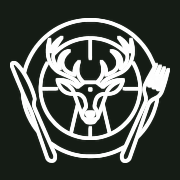
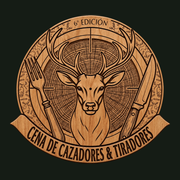
acomodado seo y mail en entradas

diff --git a/lib/admin/consultas.ts b/lib/admin/consultas.ts
@@ -29,7 +29,7 @@ import type {
   VentaManual,
   VentaManualJson,
 } from "./tipos";
-import type { Entrada, EstadoOrden } from "@/lib/tipos";
+import type { Entrada, EstadoOrden, Orden } from "@/lib/tipos";
 
 /**
  * Lecturas del panel. Las pantallas solo llaman a estas funciones.
@@ -218,10 +218,13 @@ export async function obtenerDiasDeVenta(q?: string): Promise<{
 /**
  * Las entradas emitidas de un dia, una por butaca.
  *
- * Un pedido por orden, todos en paralelo: `/api/ordenes/{token}/entradas` es el
- * unico lugar donde estan los codigos, y sin codigo no hay ni "cambiar butaca"
- * ni "anular". La pantalla llama a esto para todos sus dias de una: son cien
- * pedidos como techo —el tope de la lista de ordenes— y salen juntos.
+ * Dos pedidos por orden, todos en paralelo. `/api/ordenes/{token}/entradas` es
+ * el unico lugar donde estan los codigos, y sin codigo no hay ni "cambiar
+ * butaca" ni "anular"; `/api/ordenes/{token}` es el unico que trae al comprador
+ * entero, y de ahi sale el mail al que fue el PDF —la lista de ordenes del
+ * panel no lo incluye—. La pantalla llama a esto para todos sus dias de una:
+ * son doscientos pedidos como techo —el tope de la lista de ordenes es cien— y
+ * salen juntos.
  *
  * Es el endpoint publico, sin token de admin, y es a proposito: el contrato dice
  * que el detalle de una compra no tiene version admin.
@@ -229,10 +232,8 @@ export async function obtenerDiasDeVenta(q?: string): Promise<{
  * **Lo de `anulada` es deduccion, no dato.** Ese listado no trae `anuladaEl`,
  * pero anular devuelve la butaca a la venta y la saca de las que la orden
  * conserva. Entonces: si el dia trae mas entradas que butacas conservadas, esas
- * de mas estan anuladas, y para saber *cuales* hay que pedir el detalle de la
- * orden — que es el unico que lista las butacas que le quedan. Se pide solo para
- * las ordenes donde los numeros no cierran, que son las pocas que tienen alguna
- * anulada; en la enorme mayoria no sale ese segundo viaje.
+ * de mas estan anuladas, y para saber *cuales* se miran las butacas que la orden
+ * conserva, que las lista el mismo detalle que ya se pidio por el mail.
  *
  * Si el cruce no cierra —porque el backend ya filtra las anuladas de ese listado,
  * o porque cambio lo que devuelve— **no se marca ninguna**. Tachar la entrada
@@ -243,8 +244,12 @@ export async function obtenerEntradasDelDia(
 ): Promise<EntradaVendida[]> {
   const porOrden = await Promise.all(
     ordenes.map(async (orden) => {
-      const entradas = await obtenerEntradasPorToken(orden.token);
-      const anuladas = await deducirAnuladas(orden, entradas);
+      const [entradas, detalle] = await Promise.all([
+        obtenerEntradasPorToken(orden.token),
+        obtenerOrdenPorToken(orden.token),
+      ]);
+
+      const anuladas = deducirAnuladas(orden, entradas, detalle);
 
       return entradas.map((entrada) => ({
         ...entrada,
@@ -252,6 +257,7 @@ export async function obtenerEntradasDelDia(
         ordenToken: orden.token,
         dni: orden.dni,
         comprador: orden.comprador,
+        email: detalle?.usuario.email ?? null,
         origen: orden.origen,
         pagadoEl: orden.pagadoEl,
       }));
@@ -264,15 +270,14 @@ export async function obtenerEntradasDelDia(
 }
 
 /** Los numeros de butaca anulados de una orden, o vacio si el cruce no cierra. */
-async function deducirAnuladas(
+function deducirAnuladas(
   orden: OrdenAdmin,
   entradas: Entrada[],
-): Promise<Set<number>> {
+  detalle: Orden | null,
+): Set<number> {
   const sobran = entradas.length - orden.butacas;
 
   if (sobran <= 0) return new Set();
-
-  const detalle = await obtenerOrdenPorToken(orden.token);
 
   if (!detalle) return new Set();
 

diff --git a/lib/admin/tipos.ts b/lib/admin/tipos.ts
@@ -238,6 +238,15 @@ export type EntradaVendida = {
   ordenToken: string;
   dni: string;
   comprador: string;
+  /**
+   * A donde salio el PDF. **No viene con la lista**: se pide el detalle de la
+   * compra, que es el unico que trae al comprador entero. `null` si ese pedido
+   * no llego —el resto de la fila vale igual y se muestra sin el mail.
+   *
+   * Es la direccion de hoy, no la del envio: si alguien la corrigio despues de
+   * emitidas las entradas, esta es la corregida.
+   */
+  email: string | null;
   origen: OrigenOrden;
   pagadoEl: Date | null;
 };

diff --git a/components/admin/entradas/lista-entradas.tsx b/components/admin/entradas/lista-entradas.tsx
@@ -71,6 +71,13 @@ function Fila({ entrada, q }: { entrada: EntradaVendida; q?: string }) {
         <span className="block text-xs text-ink-faint tabular">
           DNI {entrada.dni}
         </span>
+        {/* A donde salio el PDF. Si el detalle de la compra no llego no se
+            escribe nada: una fila sin mail se lee peor con un guion al lado. */}
+        {entrada.email && (
+          <span className="block text-xs break-all text-ink-faint">
+            {entrada.email}
+          </span>
+        )}
       </Celda>
 
       <Celda>

diff --git a/components/compra/barra-flujo.tsx b/components/compra/barra-flujo.tsx
@@ -26,7 +26,7 @@ export function BarraFlujo() {
         </Link>
 
         <p className="hidden text-xs text-ink-faint sm:block">
-          Compra segura · Bonifacio Malaquía
+          Compra segura · Cena de Cazadores y Tiradores
         </p>
       </div>
     </header>

diff --git a/CLAUDE.md b/CLAUDE.md
@@ -76,13 +76,14 @@ public/      hero.webp, sobre-nosotros.webp, equipo.webp, extra.webp, logo.png
              logo-estudio-ve). El icono de la pestaña son app/icon.png y
              app/apple-icon.png, generados a mano desde public/logo.png.
              Los originales sin comprimir viven en design/ (gitignored).
-             ⚠ `logo.png` es line-art apaisado (2312×2087) de trazo finísimo:
-             nunca en caja cuadrada (`size-*`) y nunca abajo de 56px de alto —
-             los trazos caen por debajo del pixel y queda una mancha gris. Por
-             eso los íconos no son un `resize` a secas: se engordan los trazos
-             componiendo la imagen sobre sí misma corrida un pixel en las ocho
-             direcciones, y recién ahí se achican a 96 y 180. Si se rehacen sin
-             ese paso, a 32px el ciervo desaparece.
+             `logo.png` hoy es cuadrado (1254×1254) y macizo —70% de pixeles
+             opacos—, así que los íconos salen de un `resize` a secas: se
+             recorta el aire de abajo, se achica a 86 y 160, y se centra con
+             ~5,5% de padding en lienzos de 96 y 180. El `apple-icon` va
+             aplanado sobre `#151c15` (el `themeColor`) porque Apple no respeta
+             la transparencia; el `icon` la conserva. El truco de engordar los
+             trazos en ocho direcciones era del logo apaisado anterior, de
+             line-art finísimo: ya no hace falta.
 .mcp.json    servidor MCP de Supabase (compartido; los permisos no)
 
 Docs en la raíz: README.md · PRODUCT.md · LOGICA-BACKEND.md · AGENTS.md
